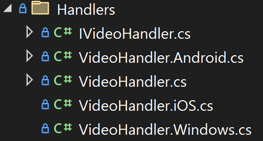
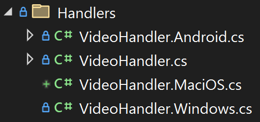
Add XML multi-targeting config.

Changed region(s): [[0.0, 0.0, 0.9538, 0.7869], [0.1538, 0.8361, 0.9846, 0.959]]

diff --git a/docs/user-interface/handlers/create.md b/docs/user-interface/handlers/create.md
@@ -190,20 +190,44 @@ Each platform handler must provide implementations of the Actions, which manipul
 
 ## Create the platform controls
 
-After creating the mappers for your handler, you must provide handler implementations on all platforms. This can be accomplished by adding partial class handler implementations in the child folders of the *Platforms* folder. Alternatively you could configure your project to support filename-based multi-targeting, or folder-based multi-targeting, or both. For more information, see [Configure multi-targeting](~/platform-integration/configure-multi-targeting.md).
+After creating the mappers for your handler, you must provide handler implementations on all platforms. This can be accomplished by adding partial class handler implementations in the child folders of the *Platforms* folder. Alternatively you could configure your project to support filename-based multi-targeting, or folder-based multi-targeting, or both.
 
-The sample application is configured to support filename-based multi-targeting, so that the handler classes all are located in a single folder:
+The sample app is configured to support filename-based multi-targeting, so that the handler classes all are located in a single folder:
 
 :::image type="content" source="media/create/handlers-folder.png" alt-text="Screenshot of the files in the Handlers folder of the project.":::
 
-The `VideoHandler` class containing the mappers is named *VideoHandler.cs*. Its platform implementations are in the *VideoHandler.Android.cs*, *VideoHandler.iOS.cs*, and *VideoHandler.Windows.cs* files.
+The `VideoHandler` class containing the mappers is named *VideoHandler.cs*. Its platform implementations are in the *VideoHandler.Android.cs*, *VideoHandler.MaciOS.cs*, and *VideoHandler.Windows.cs* files. This filename-based multi-targeting is configured by adding the following XML to the project file, as children of the `<Project>` node:
+
+```xml
+<!-- Android -->
+<ItemGroup Condition="$(TargetFramework.StartsWith('net6.0-android')) != true">
+  <Compile Remove="**\**\*.Android.cs" />
+  <None Include="**\**\*.Android.cs" Exclude="$(DefaultItemExcludes);$(DefaultExcludesInProjectFolder)" />
+</ItemGroup>
+
+<!-- iOS and Mac Catalyst -->
+<ItemGroup Condition="$(TargetFramework.StartsWith('net6.0-ios')) != true AND $(TargetFramework.StartsWith('net6.0-maccatalyst')) != true">
+  <Compile Remove="**\**\*.MaciOS.cs" />
+  <None Include="**\**\*.MaciOS.cs" Exclude="$(DefaultItemExcludes);$(DefaultExcludesInProjectFolder)" />
+</ItemGroup>
+
+<!-- Windows -->
+<ItemGroup Condition="$(TargetFramework.Contains('-windows')) != true ">
+  <Compile Remove="**\*.Windows.cs" />
+  <None Include="**\*.Windows.cs" Exclude="$(DefaultItemExcludes);$(DefaultExcludesInProjectFolder)" />
+</ItemGroup>
+
+```
+
+For more information about configuring multi-targeting, see [Configure multi-targeting](~/platform-integration/configure-multi-targeting.md).
 
 Each platform handler class should be a partial class and derive from the generic `ViewHandler` class, that requires two type arguments:
 
 - The class for the cross-platform control, that derives from `View`.
 - The type of the native view that implements the cross-platform control on the platform. This should be identical to the type of the `PlatformView` property in the handler.
 
-The `ViewHandler` class provides `VirtualView` and `PlatformView` properties. The `VirtualView` property is used to access the cross-platform control from its handler. The `PlatformView` property, is used to access the native view on each platform that implements the cross-platform control.
+> [!IMPORTANT]
+> The `ViewHandler` class provides `VirtualView` and `PlatformView` properties. The `VirtualView` property is used to access the cross-platform control from its handler. The `PlatformView` property, is used to access the native view on each platform that implements the cross-platform control.
 
 Each of the platform handler implementations should override the following methods:
 
